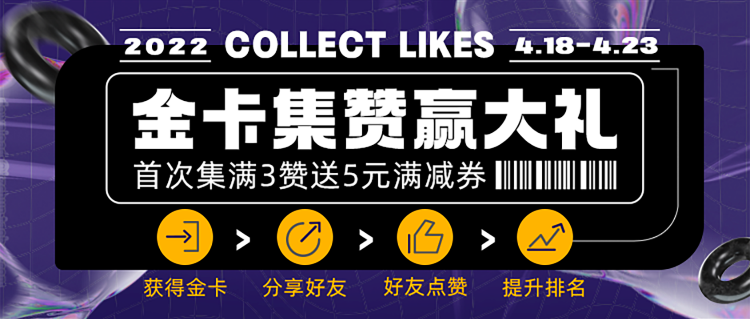
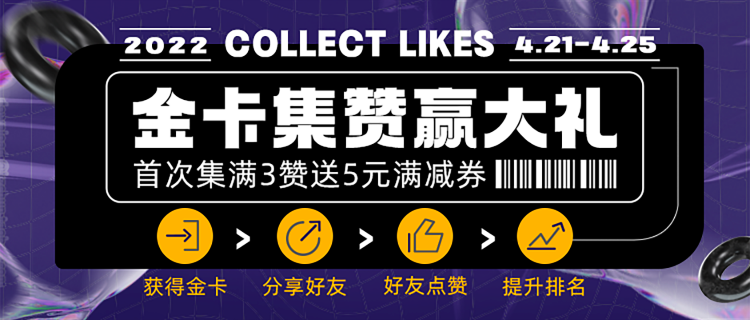
金卡集赞活动时间更改,规则修改,展示样式修改

diff --git a/src/pages/act/goldRank/goldRank_rule.vue b/src/pages/act/goldRank/goldRank_rule.vue
@@ -3,9 +3,9 @@
 		<view class="ruleContent">
 			<view class="title">活动规则</view>
 			<view class="txt">
-				玩家可通过NBA随机卡种、随机球员类拼团有概率获取金卡积分
+				玩家参与篮球、足球类拼团有概率获取金色卡密积分（自选球队玩法除外）
 				<br>
-				<text class="emphasis">金卡×卡密单价</text>（如：小明参与10组单价为2.5元的拼团，抽到2张金色卡密，共获得5积分）
+				<text class="emphasis">金卡积分=金卡×卡密单价</text>（如：小明参与10组单价为2.5元的拼团，抽到2张金色卡密，共获得5积分）
 			</view>
 			<view class="theSecondaryTitle">玩法一：今日榜单</view>
 			<view class="txt">·活动分为10期，每期1天(0点开始，23:59:59结束），根据玩家当日获取金色卡密积分由高到低排名，位于<text
@@ -13,9 +13,9 @@
 			</view>
 			<view class="txt">·每期活动结束后，可结算排名奖励；实物类奖品请联系客服发货(包邮)；优惠券类奖品将在2小时内自动发放至我的-优惠券，有效期为60天，请注意查收</view>
 			<view class="theSecondaryTitle">玩法二：积分总榜</view>
-			<view class="txt">·4.18-4.27期间活动全部结束后，根据玩家此期间累计获取金色卡密积分由高到低排名，位于<text class="emphasis">积分总榜前100名的玩家可获取相应大奖
+			<view class="txt">·4.21-5.5期间活动全部结束后，根据玩家此期间累计获取金色卡密积分由高到低排名，位于<text class="emphasis">积分总榜前100名的玩家可获取相应大奖
 				</text></view>
-			<view class="txt">·4.18-4.27期间活动全部结束后，可结算排名奖励；实物类奖品请联系客服发货(包邮)；优惠券类奖品将在2小时内自动发放至我的-优惠券，有效期为60天，请注意查收</view>
+			<view class="txt">·4.21-5.5期间活动全部结束后，可结算排名奖励；实物类奖品请联系客服发货(包邮)；优惠券类奖品将在2小时内自动发放至我的-优惠券，有效期为60天，请注意查收</view>
 		</view>
 	</view>
 </template>

diff --git a/src/pages/act/goldRank/goldRank_rankList.vue b/src/pages/act/goldRank/goldRank_rankList.vue
@@ -44,7 +44,7 @@
 			<view class="tagContent-item" v-for="(item,index) in tag.list" :key='index' @click="tagChange(item,index)">
 				<view class="tagName">{{item.name}}</view>
 				<view class="smallName" v-if="index==0">本轮倒计时: {{countDown(nowDateStamp,endTimeStamp)}}</view>
-				<view class="smallName" v-if="index==1">活动时间: 4.20-5.4 </view>
+				<view class="smallName" v-if="index==1">活动时间: 4.21-5.5 </view>
 			</view>
 			<view class="luxuryGifts"><text>豪礼</text></view>
 		</view>
@@ -73,9 +73,11 @@
 			<template>
 				<view class="residueRank uni-flex" v-for="(item) in getTopThreeList">
 					<view class="residueRank-index">{{item.ranking}}</view>
-					<image class="residueRank-avart" :src="decodeURIComponent(item.userAvatar)">
+					<image v-show="item.userName!='虚位以待'&&item.gold_value!=0" class="residueRank-avart"
+						:src="decodeURIComponent(item.userAvatar)">
 					</image>
-					<view class="residueRank-name oneLineOver">{{item.userName}}</view>
+					<view class="residueRank-name oneLineOver"
+						:style="{width:(item.userName=='虚位以待'&&item.gold_value==0)?'26%':'14%'}">{{item.userName}}</view>
 					<view class="integral uni-flex" style="flex: 1;justify-content: start;margin-top: 0;">
 						<image src="../../../static/act/goldRank/integral_icon.png" mode="widthFix"
 							style="width: 22rpx;">
@@ -245,7 +247,7 @@
 				this.$nextTick(() => {
 					const query: any = uni.createSelectorQuery().in(this);
 					query.select('#rollContent').boundingClientRect((data: any) => {
-						// console.log(data.width)
+						console.log(data.width)
 					}).exec();
 				})
 			})
@@ -262,7 +264,7 @@
 					this.myData = res.data.myData || {}
 					// this.unoccupied = res.data.unoccupied
 					uni.hideLoading()
-					
+
 					setTimeout(() => {
 						uni.stopPullDownRefresh();
 					}, 500);
@@ -594,12 +596,12 @@
 				// text-align: center;
 				font-weight: 500;
 				font-size: 26rpx;
-				width: 23%;
+				width: 14%;
 				// text-align: center;
 			}
 
 			&-prize {
-				text-align: right;
+				text-align: left;
 				color: #fff;
 				width: 34%;
 				font-size: 26rpx;
